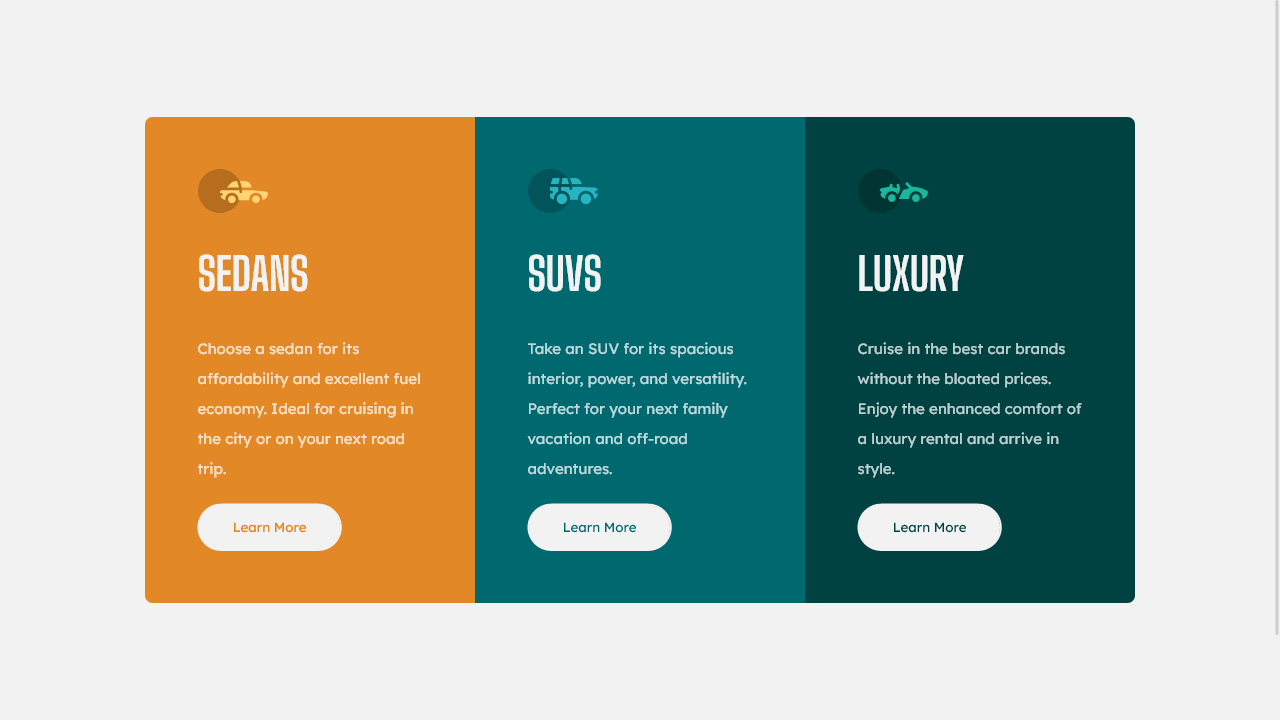
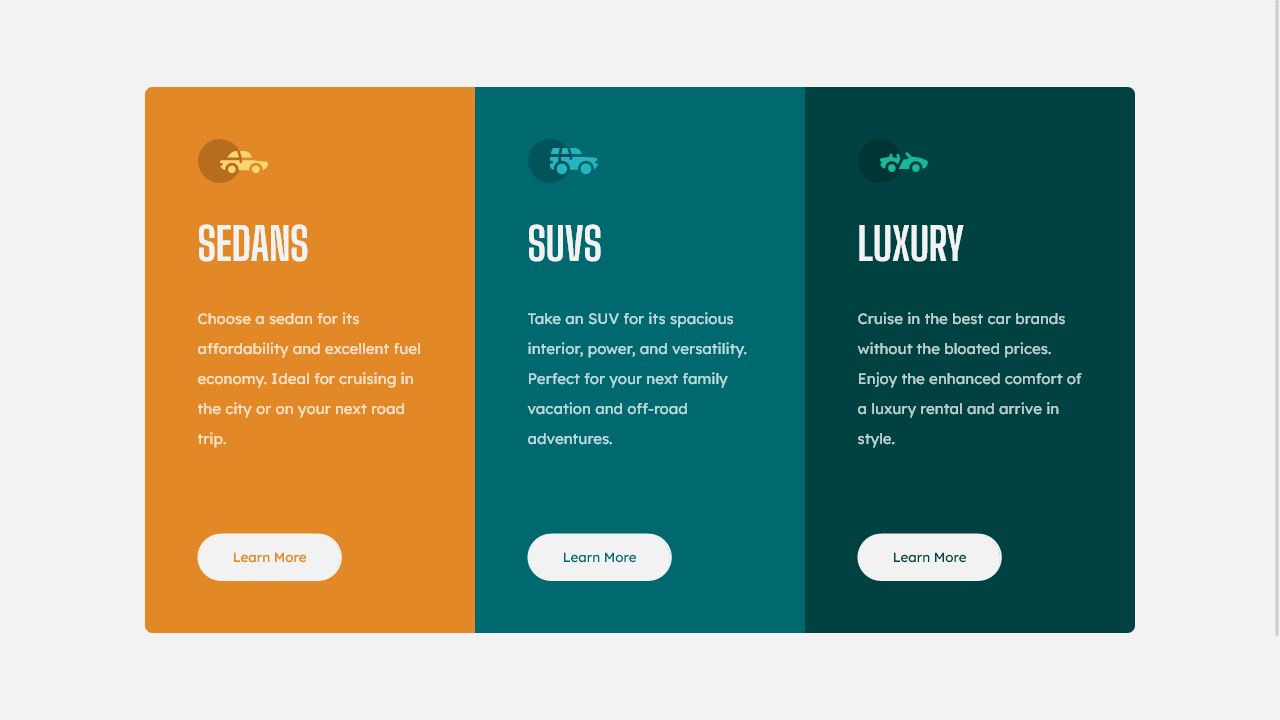
added margin desktop view

diff --git a/styles/index.css b/styles/index.css
@@ -95,7 +95,7 @@ footer {
   padding: 1em 2.5em;
   font-family: var(--ff-serif);
   cursor: pointer;
-  transition: all 650ms;
+  transition: background-color 450ms ease-in-out, color 650ms ease-in-out;
 }
 
 .btn:hover,
@@ -103,6 +103,7 @@ footer {
   background-color: transparent;
   color: var(--clr-transparent-white);
 }
+
 .btn-sedans {
   color: var(--clr-bright-orange);
 }
@@ -173,6 +174,10 @@ footer {
 @media (min-width: 998px) {
   .container {
     flex-direction: row;
+  }
+
+  .btn {
+    margin-top: 6em;
   }
 
   .card-sedans {
